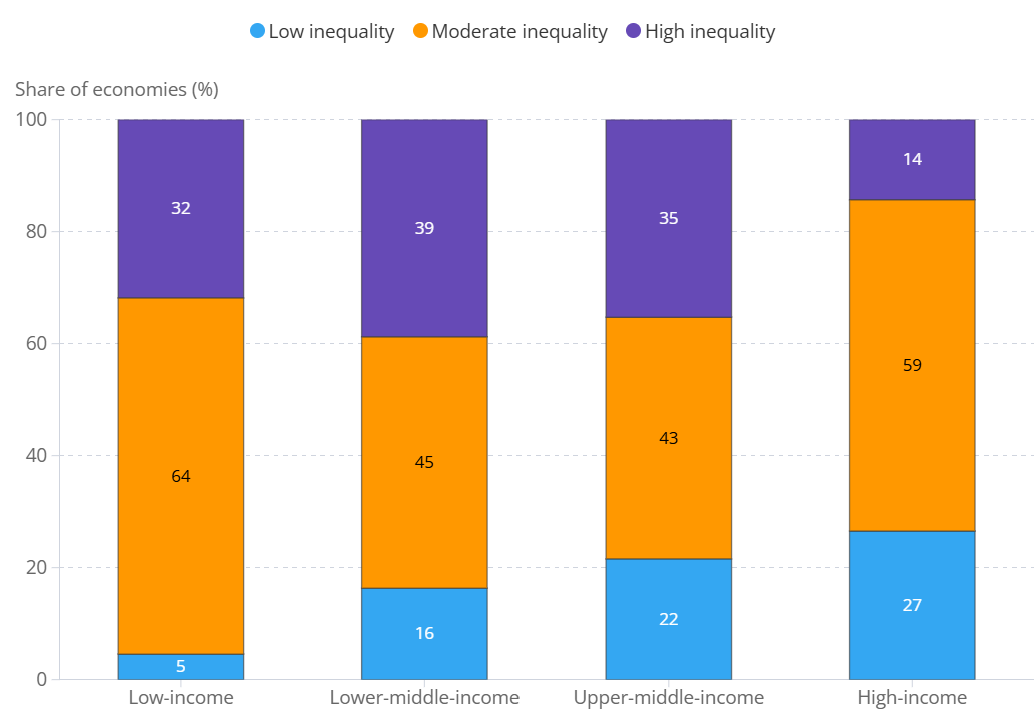
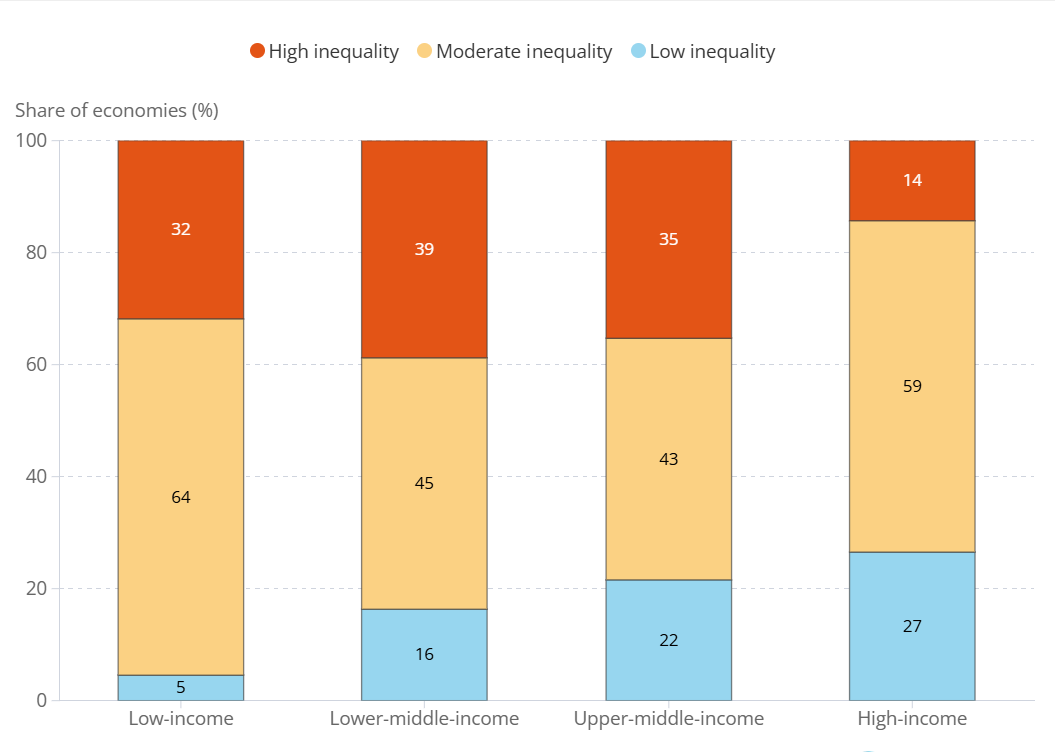
color/format updates

diff --git a/_site/index.html b/_site/index.html
@@ -176,7 +176,7 @@ ul.task-list li input[type="checkbox"] {
     </div>
 </div>
 <div class="list grid quarto-listing-cols-3">
-<div class="g-col-1" data-index="0" data-categories="Poverty" data-listing-file-modified-sort="1760020070008" data-listing-reading-time-sort="1">
+<div class="g-col-1" data-index="0" data-categories="Poverty" data-listing-file-modified-sort="1760026618204" data-listing-reading-time-sort="1">
 <a href="./posts/Page 1 - Figure 1.html" class="quarto-grid-link">
 <div class="quarto-grid-item card h-100 card-left">
 <p class="card-img-top">
@@ -203,7 +203,7 @@ Progress in reducing global extreme poverty has come to a halt
 </div>
 </a>
 </div>
-<div class="g-col-1" data-index="1" data-categories="Poverty" data-listing-file-modified-sort="1760020217357" data-listing-reading-time-sort="1">
+<div class="g-col-1" data-index="1" data-categories="Poverty" data-listing-file-modified-sort="1760026618222" data-listing-reading-time-sort="1">
 <a href="./posts/Page 2 - Figure 2.html" class="quarto-grid-link">
 <div class="quarto-grid-item card h-100 card-left">
 <p class="card-img-top">
@@ -230,7 +230,7 @@ The number of people living on less than $8.30 per day has remained unchanged si
 </div>
 </a>
 </div>
-<div class="g-col-1" data-index="2" data-categories="Poverty" data-listing-file-modified-sort="1760020812834" data-listing-reading-time-sort="1">
+<div class="g-col-1" data-index="2" data-categories="Poverty" data-listing-file-modified-sort="1760026618230" data-listing-reading-time-sort="1">
 <a href="./posts/Page 3 - Figure 3.html" class="quarto-grid-link">
 <div class="quarto-grid-item card h-100 card-left">
 <p class="card-img-top">
@@ -257,7 +257,7 @@ Extreme poverty rates are highest in Sub-Saharan Africa, especially in the Easte
 </div>
 </a>
 </div>
-<div class="g-col-1" data-index="3" data-categories="Poverty,Growth,Inequality" data-listing-file-modified-sort="1760026261574" data-listing-reading-time-sort="1">
+<div class="g-col-1" data-index="3" data-categories="Poverty,Growth,Inequality" data-listing-file-modified-sort="1760026618235" data-listing-reading-time-sort="1">
 <a href="./posts/Page 4 - Figure 4.html" class="quarto-grid-link">
 <div class="quarto-grid-item card h-100 card-left">
 <p class="card-img-top">
@@ -290,7 +290,7 @@ The 3 percent goal remains out of reach for decades if current conditions don’
 </div>
 </a>
 </div>
-<div class="g-col-1" data-index="4" data-categories="Poverty,Growth,Inequality" data-listing-file-modified-sort="1760026223521" data-listing-reading-time-sort="1">
+<div class="g-col-1" data-index="4" data-categories="Poverty,Growth,Inequality" data-listing-file-modified-sort="1760026618242" data-listing-reading-time-sort="1">
 <a href="./posts/Page 5 - Figure 5.html" class="quarto-grid-link">
 <div class="quarto-grid-item card h-100 card-left">
 <p class="card-img-top">
@@ -323,7 +323,7 @@ Projections of poverty until 2050 under different scenarios
 </div>
 </a>
 </div>
-<div class="g-col-1" data-index="5" data-categories="Poverty" data-listing-file-modified-sort="1760025126692" data-listing-reading-time-sort="1">
+<div class="g-col-1" data-index="5" data-categories="Poverty" data-listing-file-modified-sort="1760026618248" data-listing-reading-time-sort="1">
 <a href="./posts/Page 6 - Figure 6.html" class="quarto-grid-link">
 <div class="quarto-grid-item card h-100 card-left">
 <p class="card-img-top">
@@ -350,7 +350,7 @@ Poverty is still above prepandemic levels in the poorest countries
 </div>
 </a>
 </div>
-<div class="g-col-1" data-index="6" data-categories="Poverty" data-listing-file-modified-sort="1760025266076" data-listing-reading-time-sort="1">
+<div class="g-col-1" data-index="6" data-categories="Poverty" data-listing-file-modified-sort="1760026618258" data-listing-reading-time-sort="1">
 <a href="./posts/Page 7 - Figure 7.html" class="quarto-grid-link">
 <div class="quarto-grid-item card h-100 card-left">
 <p class="card-img-top">
@@ -377,7 +377,7 @@ Poverty is still above prepandemic levels in the poorest countries
 </div>
 </a>
 </div>
-<div class="g-col-1" data-index="7" data-categories="Prosperity Gap" data-listing-file-modified-sort="1760024193063" data-listing-reading-time-sort="1">
+<div class="g-col-1" data-index="7" data-categories="Prosperity Gap" data-listing-file-modified-sort="1760026618267" data-listing-reading-time-sort="1">
 <a href="./posts/Page 8 - Figure 8.html" class="quarto-grid-link">
 <div class="quarto-grid-item card h-100 card-left">
 <p class="card-img-top">
@@ -404,7 +404,7 @@ Stalled progress in Global Prosperity Gap reduction
 </div>
 </a>
 </div>
-<div class="g-col-1" data-index="8" data-categories="Prosperity Gap" data-listing-file-modified-sort="1760023759528" data-listing-reading-time-sort="1">
+<div class="g-col-1" data-index="8" data-categories="Prosperity Gap" data-listing-file-modified-sort="1760026618272" data-listing-reading-time-sort="1">
 <a href="./posts/Page 9 - Figure 9.html" class="quarto-grid-link">
 <div class="quarto-grid-item card h-100 card-left">
 <p class="card-img-top">
@@ -431,7 +431,7 @@ The poorest regions are furthest behind and contribute more to the Global Prospe
 </div>
 </a>
 </div>
-<div class="g-col-1" data-index="9" data-categories="Prosperity Gap,Growth,Inequality" data-listing-file-modified-sort="1760024076312" data-listing-reading-time-sort="1">
+<div class="g-col-1" data-index="9" data-categories="Prosperity Gap,Growth,Inequality" data-listing-file-modified-sort="1760026618210" data-listing-reading-time-sort="1">
 <a href="./posts/Page 10 - Figure 10.html" class="quarto-grid-link">
 <div class="quarto-grid-item card h-100 card-left">
 <p class="card-img-top">
@@ -464,7 +464,7 @@ Limited gains in the Global Gap due to a slowdown of global growth and an increa
 </div>
 </a>
 </div>
-<div class="g-col-1" data-index="10" data-categories="Inequality" data-listing-file-modified-sort="1759934839617" data-listing-reading-time-sort="1">
+<div class="g-col-1" data-index="10" data-categories="Inequality" data-listing-file-modified-sort="1760065596255" data-listing-reading-time-sort="1">
 <a href="./posts/Page 11 - Figure 11.html" class="quarto-grid-link">
 <div class="quarto-grid-item card h-100 card-left">
 <p class="card-img-top">
@@ -548,7 +548,7 @@ Conflict-affected economies tend to be more unequal
 </div>
 </a>
 </div>
-<div class="g-col-1" data-index="13" data-categories="Growth" data-listing-file-modified-sort="1759889408610" data-listing-reading-time-sort="1">
+<div class="g-col-1" data-index="13" data-categories="Growth" data-listing-file-modified-sort="1760039078366" data-listing-reading-time-sort="1">
 <a href="./posts/Page 14 - Figure 14.html" class="quarto-grid-link">
 <div class="quarto-grid-item card h-100 card-left">
 <p class="card-img-top">
@@ -575,7 +575,7 @@ Income levels in the world have grown between 1990 and 2025, but many people rem
 </div>
 </a>
 </div>
-<div class="g-col-1" data-index="14" data-categories="Growth" data-listing-file-modified-sort="1759888789481" data-listing-reading-time-sort="1">
+<div class="g-col-1" data-index="14" data-categories="Growth" data-listing-file-modified-sort="1760040101418" data-listing-reading-time-sort="1">
 <a href="./posts/Page 15 - Figure 15.html" class="quarto-grid-link">
 <div class="quarto-grid-item card h-100 card-left">
 <p class="card-img-top">
@@ -632,7 +632,7 @@ FCA
 </div>
 </a>
 </div>
-<div class="g-col-1" data-index="16" data-categories="Poverty" data-listing-file-modified-sort="1760012771116" data-listing-reading-time-sort="1">
+<div class="g-col-1" data-index="16" data-categories="Poverty" data-listing-file-modified-sort="1760059552562" data-listing-reading-time-sort="1">
 <a href="./posts/Page 17 - Figure 17.html" class="quarto-grid-link">
 <div class="quarto-grid-item card h-100 card-left">
 <p class="card-img-top">
@@ -640,7 +640,7 @@ FCA
 </p>
 <div class="card-body post-contents">
 <h5 class="no-anchor card-title listing-title">
-17 - Millions of poor
+17 - Millions of poor by region
 </h5>
 <div class="listing-categories">
 <div class="listing-category" onclick="window.quartoListingCategory('Poverty'); return false;">

diff --git a/_site/posts/Page 17 - Figure 17.html b/_site/posts/Page 17 - Figure 17.html
@@ -8,7 +8,7 @@
 
 <meta name="description" content="Sub-Saharan Africa concentrates the largerst number of poor globally">
 
-<title>PIP Chart Gallery - 17 - Millions of poor</title>
+<title>PIP Chart Gallery - 17 - Millions of poor by region</title>
 <style>
 code{white-space: pre-wrap;}
 span.smallcaps{font-variant: small-caps;}
@@ -60,6 +60,7 @@ ul.task-list li input[type="checkbox"] {
     "search-label": "Search"
   }
 }</script>
+<script src="../site_libs/font-awesome-6.7.2/js/script.js"></script>
 
 
 <link rel="stylesheet" href="../styles.css">
@@ -117,7 +118,7 @@ ul.task-list li input[type="checkbox"] {
 
 <header id="title-block-header" class="quarto-title-block default">
 <div class="quarto-title">
-<h1 class="title">17 - Millions of poor</h1>
+<h1 class="title">17 - Millions of poor by region</h1>
   <div class="quarto-categories">
     <div class="quarto-category">Poverty</div>
   </div>
@@ -140,13 +141,19 @@ ul.task-list li input[type="checkbox"] {
 
 </header>
 
-<div class="flourish-embed flourish-hierarchy" data-src="visualisation/25517153?515064">
+<div class="flourish-embed flourish-hierarchy" data-src="visualisation/25564496?515064">
 <script src="https://public.flourish.studio/resources/embed.js"></script>
 <noscript>
-<img src="https://public.flourish.studio/visualisation/25517153/thumbnail" width="100%" alt="hierarchy visualization">
+<img src="https://public.flourish.studio/visualisation/25564496/thumbnail" width="100%" alt="hierarchy visualization">
 </noscript>
 </div>
-<p>Source: World Bank, Poverty and Inequality Platform (version September 2025), https://pip.worldbank.org/. Note: This</p>
+<div class="cell">
+<div class="cell-output-display">
+<a href="https://raw.githubusercontent.com/GPID-WB/pip-chartbook/refs/heads/main/csv/chartbook_fig_17.csv">
+<button class="btn btn-primary"><i class="fa fa-save"></i> Download data as csv</button>
+</a>
+</div>
+</div>
 
 
 

diff --git a/_site/posts/Page 11 - Figure 11.html b/_site/posts/Page 11 - Figure 11.html
@@ -60,6 +60,7 @@ ul.task-list li input[type="checkbox"] {
     "search-label": "Search"
   }
 }</script>
+<script src="../site_libs/font-awesome-6.7.2/js/script.js"></script>
 
 
 <link rel="stylesheet" href="../styles.css">
@@ -140,11 +141,18 @@ ul.task-list li input[type="checkbox"] {
 
 </header>
 
-<div class="flourish-embed flourish-map" data-src="visualisation/25516719?515064">
+<div class="flourish-embed flourish-map" data-src="visualisation/25564889?515064">
 <script src="https://public.flourish.studio/resources/embed.js"></script>
 <noscript>
-<img src="https://public.flourish.studio/visualisation/25516719/thumbnail" width="100%" alt="map visualization">
+<img src="https://public.flourish.studio/visualisation/25564889/thumbnail" width="100%" alt="map visualization">
 </noscript>
+</div>
+<div class="cell">
+<div class="cell-output-display">
+<a href="https://raw.githubusercontent.com/GPID-WB/pip-chartbook/refs/heads/main/csv/chartbook_fig_11.csv">
+<button class="btn btn-primary"><i class="fa fa-save"></i> Download data as csv</button>
+</a>
+</div>
 </div>
 <p>Note: The map presents Gini indexes for the latest available survey (after 2000), which measures the inequality of income or consumption, depending on the economy. High-inequality economies have a Gini index above 40, moderate-inequality economies are those with a Gini index between 30 and 40, and low-inequality economies are those with a Gini index below 30.</p>
 

diff --git a/_site/posts/Page 14 - Figure 14.html b/_site/posts/Page 14 - Figure 14.html
@@ -60,6 +60,7 @@ ul.task-list li input[type="checkbox"] {
     "search-label": "Search"
   }
 }</script>
+<script src="../site_libs/font-awesome-6.7.2/js/script.js"></script>
 
 
 <link rel="stylesheet" href="../styles.css">
@@ -145,6 +146,13 @@ ul.task-list li input[type="checkbox"] {
 <noscript>
 <img src="https://public.flourish.studio/visualisation/25418005/thumbnail" width="100%" alt="chart visualization">
 </noscript>
+</div>
+<div class="cell">
+<div class="cell-output-display">
+<a href="https://raw.githubusercontent.com/GPID-WB/pip-chartbook/refs/heads/main/csv/chartbook_fig_7a.csv">
+<button class="btn btn-primary"><i class="fa fa-save"></i> Download data as csv</button>
+</a>
+</div>
 </div>
 <p>Note: FCS = fragile and conflict-affected situations. High-inequality economies have a Gini index above 40, moderate inequality economies are those with a Gini index between 30 and 40, and low-inequality economies are those with a Gini index below 30. The data cover 166 economies with at least one household survey in the Poverty and Inequality Platform between 2000 and 2022. Gini is calculated from the latest survey year. Income group and FCS status are based on World Bank fiscal year 2024 lists.The label values may not add to 100 percent due to rounding.</p>
 

diff --git a/_site/posts/Page 15 - Figure 15.html b/_site/posts/Page 15 - Figure 15.html
@@ -60,6 +60,7 @@ ul.task-list li input[type="checkbox"] {
     "search-label": "Search"
   }
 }</script>
+<script src="../site_libs/font-awesome-6.7.2/js/script.js"></script>
 
 
 <link rel="stylesheet" href="../styles.css">
@@ -145,6 +146,13 @@ ul.task-list li input[type="checkbox"] {
 <noscript>
 <img src="https://public.flourish.studio/visualisation/25441653/thumbnail" width="100%" alt="chart visualization">
 </noscript>
+</div>
+<div class="cell">
+<div class="cell-output-display">
+<a href="https://raw.githubusercontent.com/GPID-WB/pip-chartbook/refs/heads/main/csv/chartbook_fig_7b.csv">
+<button class="btn btn-primary"><i class="fa fa-save"></i> Download data as csv</button>
+</a>
+</div>
 </div>
 <p>Source: World Bank, Poverty and Inequality Platform (version September 2025), https://pip.worldbank.org/. Note: This figure shows the distribution of the population over income and consumption levels in 1990 and in 2025, cut off at 25 dollars per person per day and expressed in 2021 PPPs. More than 86 percent of the global population lived below the $25 per person per day threshold in 1990 and about 80 percent live under the threshold in 2025.</p>
 
